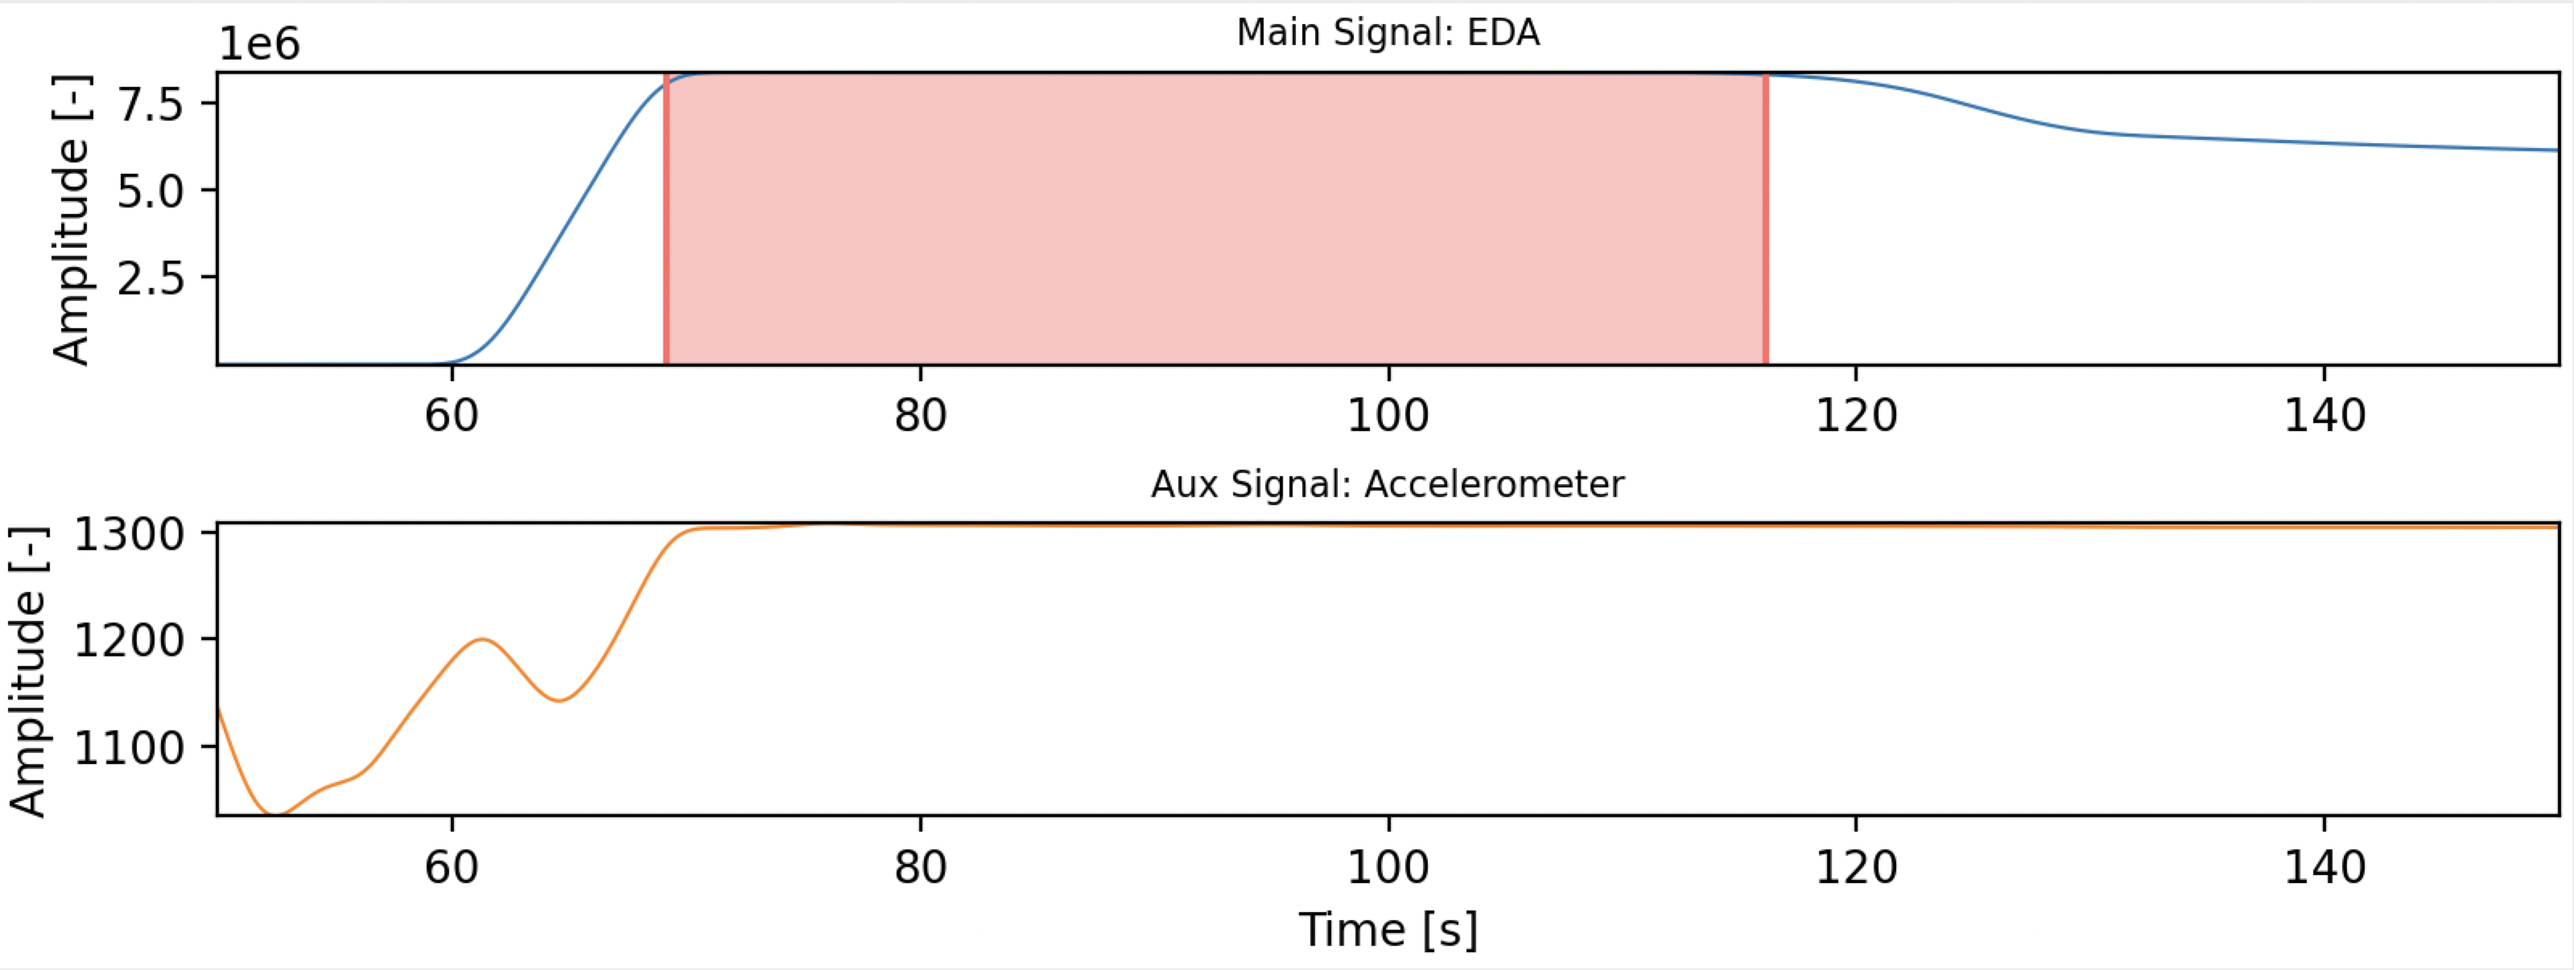
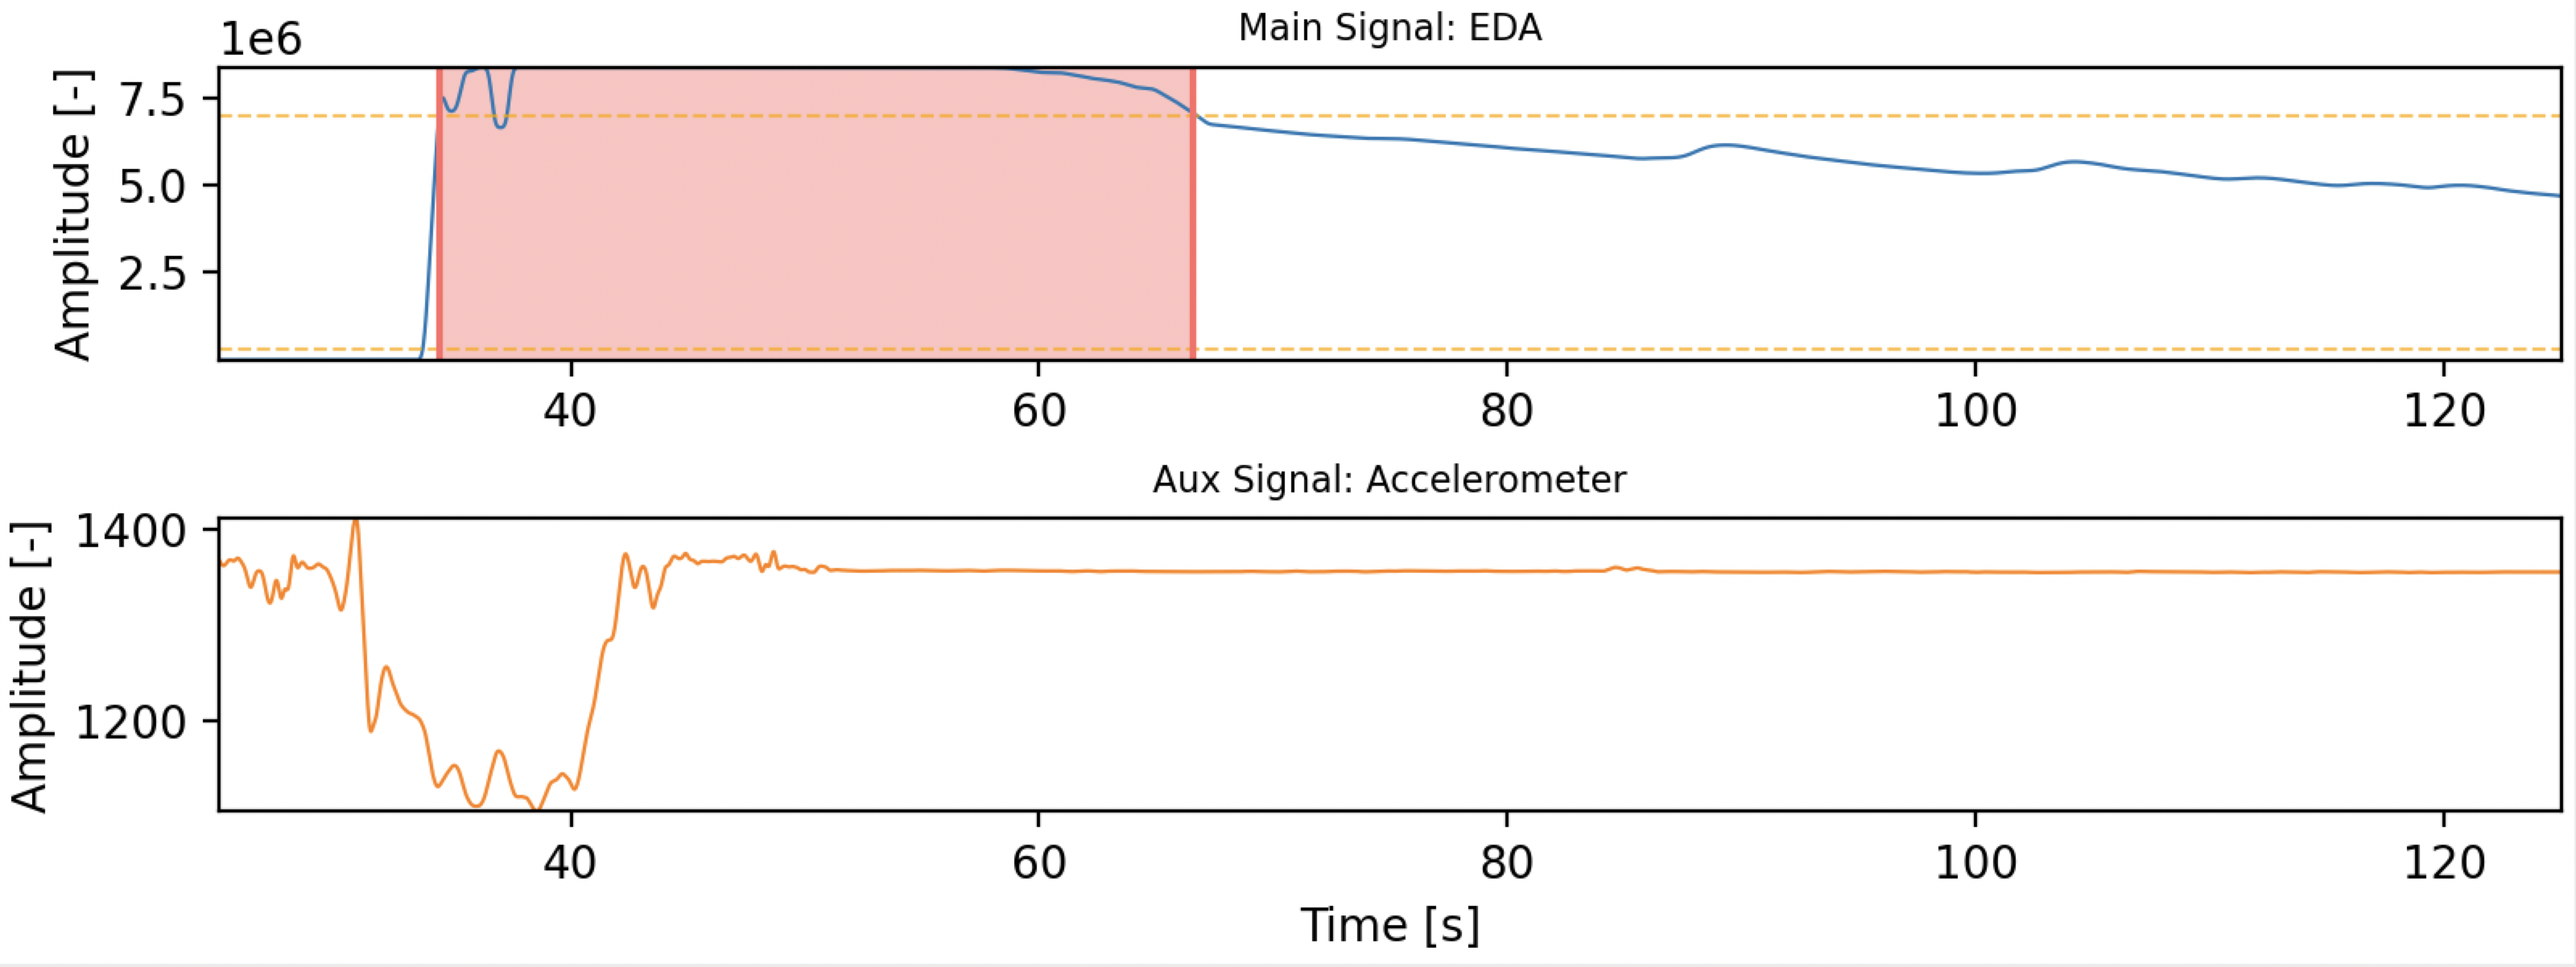
image update; added top and bottom thresholds

diff --git a/Annotator/event_annotator_ranges.py b/Annotator/event_annotator_ranges.py
@@ -94,7 +94,7 @@ class event_annotator_ranges:
 
         # --- window setup
         self.root = Tk()
-        self.root.resizable(False, False)
+        self.root.resizable(True, True)
         self.root.state("zoomed")
 
         # rows
@@ -264,7 +264,7 @@ class event_annotator_ranges:
 
         device_signals = signals #signals[self.device_name]
         eda_signal = device_signals['EDA']
-        eda_filt = filter_eda(eda_signal, sampling_rate=1000., EDR=False)
+        eda_filt = filter_eda(eda_signal, sampling_rate=100., EDR=False)
 
         if self.device_name == 'sympathia':
 
@@ -274,7 +274,7 @@ class event_annotator_ranges:
 
             [acc_x_sym, acc_y_sym, acc_z_sym] = acc_multi_filtering([raw_acc_x_sym, raw_acc_y_sym, raw_acc_z_sym],
                                                                     window_sz_ms=500,
-                                                                    fs=1000.)
+                                                                    fs=100.)
 
             acc_combines = np.column_stack((acc_x_sym, acc_y_sym, acc_z_sym))
             acc_vm = vm_extractor(signal=acc_combines)
@@ -292,7 +292,6 @@ class event_annotator_ranges:
 
         saving_suffix = f'_{self.device_name}_martfs.csv'
         self.saving_path_fname = os.path.join(csv_fname.split("_")[0] + saving_suffix)
-
 
 
     def load_checker(self):
@@ -346,6 +345,8 @@ class event_annotator_ranges:
             tmp_axis, = self.axs[i].plot(self.time_arr, self.raw_signals[:, i], linewidth=0.8, color=plot_colors[i])
             self.main_plots['{}_raw'.format(modality_name)] = [tmp_axis ,self.raw_signals[:, i]]
 
+        self.axs[0].axhline(y=7e6, linestyle='--', label='8M', color='orange', alpha=0.7, linewidth=0.8,)
+        self.axs[0].axhline(y=300e3, linestyle='--', label='8M', color='orange', alpha=0.7, linewidth=0.8,)
 
         # Saving x- and y-lims of original signals
         self.original_xlims = self.axs[0].get_xlim()

diff --git a/README.md b/README.md
@@ -1,6 +1,5 @@
 # Sock Motion Artifacts
 
-
 ## Objetivo
 Este repositório serve como plataforma para a **anotação de sinais de EDA**, no âmbito da produção de um artigo científico de elevado impacto.  
 
@@ -15,7 +14,7 @@ Para garantir a qualidade e relevância do estudo, seguimos os seguintes princí
 ## O Dataset
 - **Sujeitos**: Atualmente o dataset inclui **N = 32 sujeitos**.
 - **Tempo de aquisição**: Cerca de **60 minutos** (32 sujeitos x 1h = **32 horas totais**).
-- **Modalidades**: Apesar de terem sido gravados mais dados, para a anotação, utilizamos apenas o **sinal de EDA (principal) e EDR (secundário / auxiliar).**
+- **Modalidades**: Apesar de terem sido gravados mais dados, para a anotação, utilizamos apenas o **sinal de EDA (principal) e acelerómetro (secundário / auxiliar; é usada um sinal que combina informação dos 3 eixos).**
 
 ## Critérios para a anotação
 1. EDA **out of range** (saturação <500k ou >7M).
